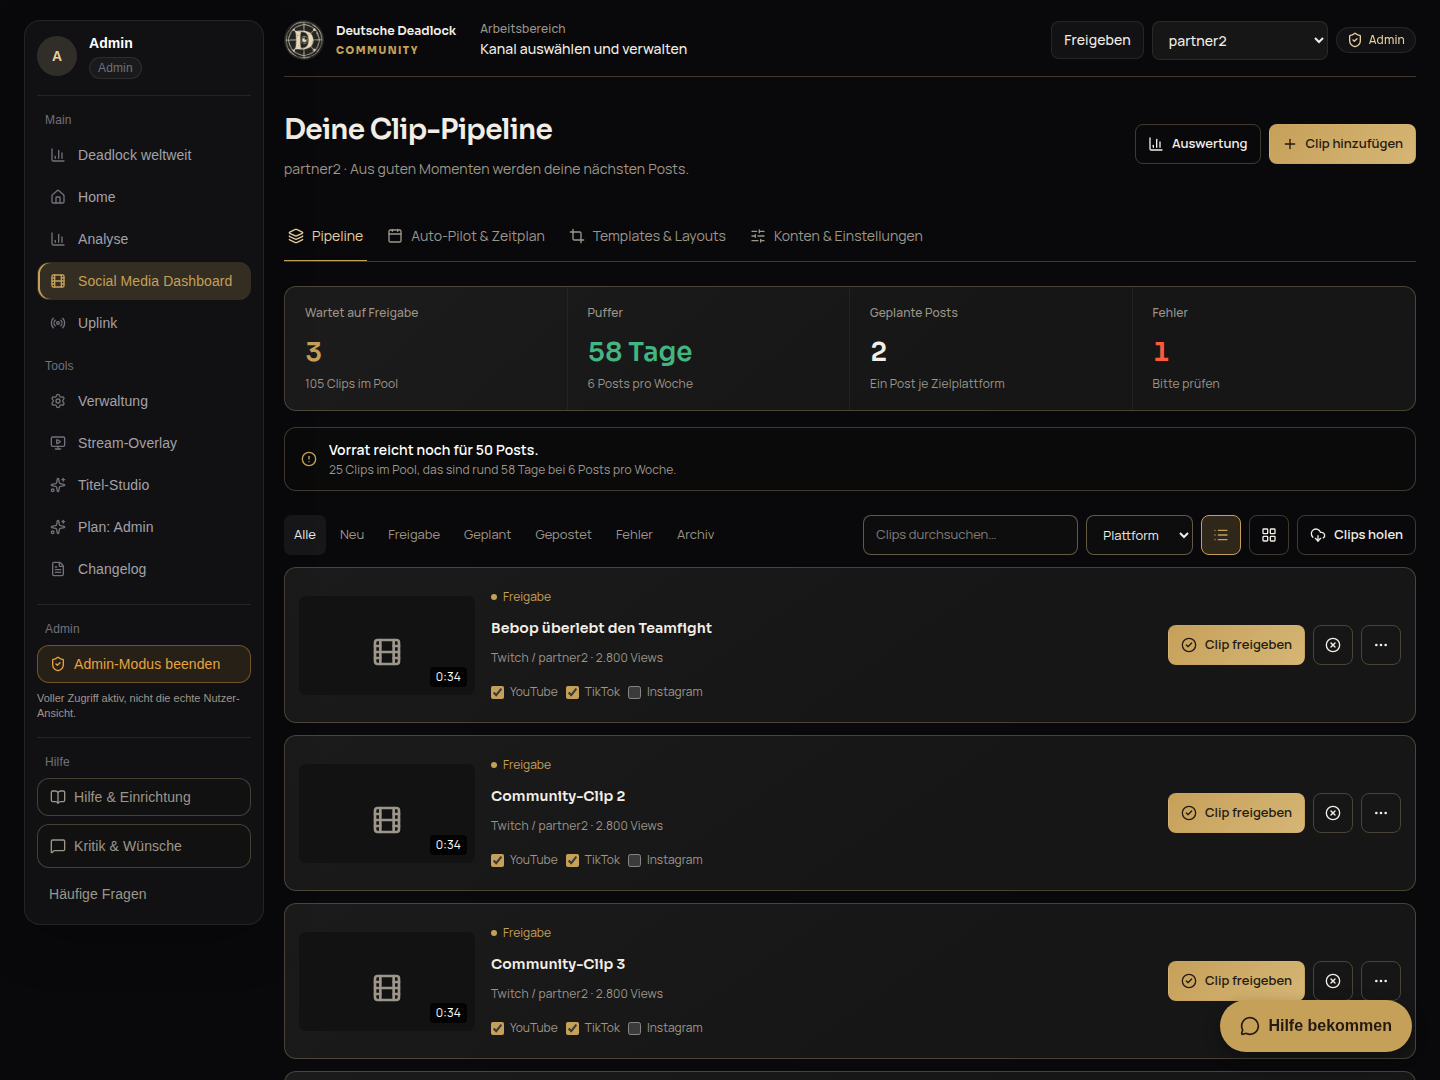
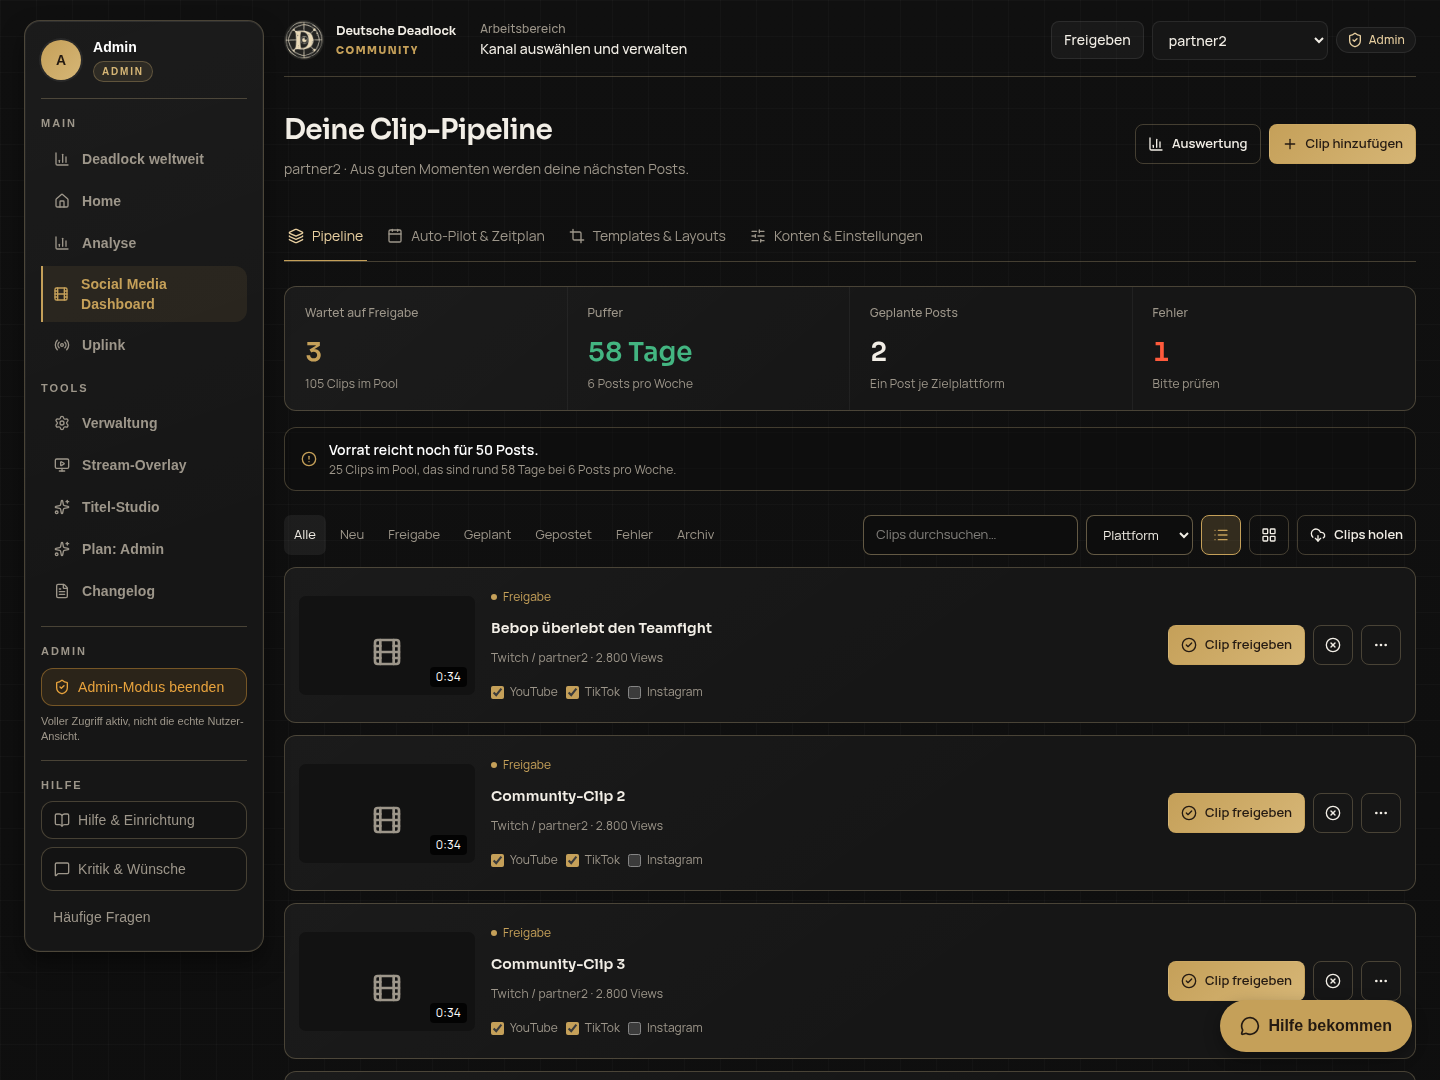
fix(dashboard): Sidebar in Marken-Farben zurueck, Redesign nur im Studio
Der Nutzer wollte das Redesign auf die Social-Media-Seite selbst begrenzt:
Sidebar (panel-card/card-glow, Gold-Aktivzustand mit Balken, gradient-
accent-Avatar, goldenes Plan-Badge, Uppercase-Gruppentitel) und Shell
(internal-home-vibe) sind auf den Stand vor 29dd9c2d zurueck, volle Breite
und 240px-Spalte bleiben. Der studio-navigation-Sonderfall aus f3ec187d
faellt weg, der Gold-Aktivzustand gilt wieder auf jeder Route.

Falle: panel-card setzt ungeschichtet position:relative und ueberstimmt
lg:sticky, lg:top-5 schob die Sidebar als relative Verschiebung 20px nach
unten. Sticky liegt jetzt auf Rise, die Karte auf dem inneren Div.

diff --git a/bot/dashboard_v2/src/components/layout/DashboardSidebar.tsx b/bot/dashboard_v2/src/components/layout/DashboardSidebar.tsx
@@ -57,17 +57,17 @@ function SidebarLink({
   active?: boolean;
 }) {
   const activeClasses =
-    'border border-white/[0.08] bg-white/[0.08] text-white';
+    'border border-primary/25 bg-primary/10 text-primary lg:rounded-l-none lg:border-y-0 lg:border-r-0 lg:border-t-0 lg:border-l-2 lg:border-primary lg:pl-2.5';
   const inactiveClasses =
-    'border border-transparent text-ui-muted hover:bg-white/[0.05] hover:text-white';
+    'border border-transparent text-text-secondary hover:bg-white/5 hover:text-white';
 
   return (
     <a
       href={href}
       aria-current={active ? 'page' : undefined}
-      className={`flex items-center gap-3 rounded-xl px-3 py-2 text-sm font-medium no-underline transition-colors whitespace-nowrap lg:whitespace-normal ${active ? activeClasses : inactiveClasses}`}
+      className={`flex items-center gap-3 rounded-xl px-3 py-2 text-sm font-semibold no-underline transition-colors whitespace-nowrap lg:whitespace-normal ${active ? activeClasses : inactiveClasses}`}
     >
-      <Icon className={`h-4 w-4 shrink-0 ${active ? 'text-ui-accent' : 'text-ui-faint'}`} />
+      <Icon className="h-4 w-4 shrink-0" />
       <span className="min-w-0 lg:break-words">{label}</span>
     </a>
   );
@@ -146,8 +146,8 @@ export function DashboardSidebar({ activeRoute }: { activeRoute: DashboardRoute 
   ];
 
   return (
-    <Rise as="aside" className={`min-w-0 self-start rounded-2xl border border-white/[0.08] bg-ui-panel p-3 shadow-[0_18px_50px_rgba(0,0,0,0.22)] lg:sticky lg:top-5${activeRoute === 'social' ? ' studio-navigation' : ''}`}>
-      <div className="space-y-4">
+    <Rise as="aside" className="min-w-0 self-start lg:sticky lg:top-5">
+      <div className="panel-card card-glow space-y-4 rounded-2xl p-4">
         <div className="flex items-center gap-3">
           {shownAvatar ? (
             <img
@@ -157,7 +157,7 @@ export function DashboardSidebar({ activeRoute }: { activeRoute: DashboardRoute 
               className="sidebar-avatar-glow h-10 w-10 shrink-0 rounded-full border border-border object-cover"
             />
           ) : profileReady ? (
-            <div className="sidebar-avatar-glow flex h-10 w-10 shrink-0 items-center justify-center rounded-full bg-ui-accent-strong/15 text-sm font-semibold text-ui-accent-ink">
+            <div className="gradient-accent sidebar-avatar-glow flex h-10 w-10 shrink-0 items-center justify-center rounded-full text-sm font-bold">
               {displayName?.[0]?.toUpperCase() ?? '?'}
             </div>
           ) : (
@@ -168,16 +168,16 @@ export function DashboardSidebar({ activeRoute }: { activeRoute: DashboardRoute 
           )}
           <div data-tour-id="tour-plan" className="min-w-0">
             <div className="truncate text-sm font-semibold text-white">{displayName}</div>
-            <div className="mt-1 inline-flex max-w-full items-center rounded-full border border-white/[0.08] bg-white/[0.04] px-2 py-0.5 text-xs font-medium text-ui-faint">
+            <div className="mt-1 inline-flex max-w-full items-center rounded-full border border-accent/30 bg-accent/10 px-2 py-0.5 text-[10px] font-semibold uppercase tracking-[0.18em] text-accent">
               {planName}
             </div>
           </div>
         </div>
 
-        <div className="border-t border-white/[0.08]" />
+        <div className="border-t border-border" />
 
         <div className="space-y-2">
-          <div className="px-2 text-xs font-medium text-ui-faint">
+          <div className="text-[11px] font-semibold uppercase tracking-[0.18em] text-text-secondary">
             Main
           </div>
           <nav
@@ -198,7 +198,7 @@ export function DashboardSidebar({ activeRoute }: { activeRoute: DashboardRoute 
         </div>
 
         <div className="space-y-2">
-          <div className="px-2 text-xs font-medium text-ui-faint">
+          <div className="text-[11px] font-semibold uppercase tracking-[0.18em] text-text-secondary">
             Tools
           </div>
           <div className="flex gap-2 overflow-x-auto pb-1 lg:block lg:space-y-1 lg:overflow-visible lg:pb-0">
@@ -217,9 +217,9 @@ export function DashboardSidebar({ activeRoute }: { activeRoute: DashboardRoute 
 
         {adminEligible ? (
           <>
-            <div className="border-t border-white/[0.08]" />
+            <div className="border-t border-border" />
             <div className="space-y-2">
-              <div className="px-2 text-xs font-medium text-ui-faint">
+              <div className="text-[11px] font-semibold uppercase tracking-[0.18em] text-text-secondary">
                 Admin
               </div>
               <button
@@ -266,9 +266,9 @@ export function DashboardSidebar({ activeRoute }: { activeRoute: DashboardRoute 
           </>
         ) : null}
 
-        <div className="border-t border-white/[0.08]" />
+        <div className="border-t border-border" />
         <div data-tour-id="tour-help" className="space-y-2">
-          <div className="px-2 text-xs font-medium text-ui-faint">
+          <div className="text-[11px] font-semibold uppercase tracking-[0.18em] text-text-secondary">
             Hilfe
           </div>
           <a

diff --git a/bot/dashboard_v2/tests/dashboardShell.test.ts b/bot/dashboard_v2/tests/dashboardShell.test.ts
@@ -53,25 +53,25 @@ test('keine Seite setzt einen eigenen Gesamtrahmen mehr', () => {
   }
 });
 
-test('die Shell trägt Hintergrund, volle Breite, Sidebar-Spalte und den Main-Slot', () => {
-  assert.match(SHELL, /bg-ui-root/);
+test('die Shell trägt den Marken-Hintergrund, volle Breite, Sidebar-Spalte und den Main-Slot', () => {
+  assert.match(SHELL, /internal-home-vibe/);
+  assert.doesNotMatch(SHELL, /bg-ui-root|text-ui-text/);
   assert.doesNotMatch(SHELL, /max-w-\[/);
   assert.match(SHELL, /lg:grid-cols-\[240px_minmax\(0,1fr\)\]/);
   assert.match(SHELL, /<DashboardSidebar activeRoute=\{activeRoute\} \/>/);
   assert.match(SHELL, /<main[^>]*>\{children\}<\/main>/);
 });
 
-test('Social Media nutzt dieselbe Shell wie Home und Uplink; die Sidebar trägt nur den Studio-Farblayer', () => {
+test('Social Media nutzt dieselbe farbige Shell und Navigation wie Home und Uplink', () => {
   assert.doesNotMatch(SHELL, /activeRoute\s*===\s*['"]social['"]/);
   assert.doesNotMatch(SHELL, /studio-shell|social-studio/);
-  assert.match(SIDEBAR, /studio-navigation/);
-  assert.doesNotMatch(SIDEBAR, /studioMenuOpen|studio-shell|studio-brand/);
+  assert.doesNotMatch(SIDEBAR, /studio-navigation|studioMenuOpen|studio-shell|studio-brand/);
   assert.equal((SHELL.match(/<DashboardSidebar /g) ?? []).length, 1);
 });
 
 test('Studio-CSS bleibt im Inhalt und definiert keinen zweiten Dashboard-Rahmen', () => {
   const studio = read('components/socialmedia/studio.css');
-  assert.doesNotMatch(studio, /\.studio-shell/);
+  assert.doesNotMatch(studio, /\.studio-shell|\.studio-navigation/);
   assert.match(read('pages/SocialMediaAdmin.tsx'), /className="social-studio space-y-6"/);
 });
 

diff --git a/bot/dashboard_v2/src/components/socialmedia/studio.css b/bot/dashboard_v2/src/components/socialmedia/studio.css
@@ -478,18 +478,3 @@
     transition: none !important;
   }
 }
-
-/*
- * Studio-Farblayer für die gemeinsame Sidebar auf der Social-Route:
- * Gold-Aktivzustand wie im Studio, ohne eigene Fläche oder Struktur.
- * Die Markenzeile bleibt im Workspace-Kopf.
- */
-.studio-navigation a[aria-current='page'] {
-  color: var(--color-primary);
-  background: var(--color-primary-soft);
-  box-shadow: inset 2px 0 var(--color-primary);
-  border-color: transparent;
-}
-.studio-navigation .sidebar-avatar-glow {
-  box-shadow: none;
-}

diff --git a/bot/dashboard_v2/src/components/layout/DashboardShell.tsx b/bot/dashboard_v2/src/components/layout/DashboardShell.tsx
@@ -16,7 +16,7 @@ export function DashboardShell({
 }) {
   const withSidebar = !demoMode && showSidebar;
   return (
-    <div className="relative min-h-screen bg-ui-root text-ui-text">
+    <div className="internal-home-vibe relative min-h-screen">
       <div className="relative px-3 py-4 md:px-5 md:py-5 lg:px-6">
         {withSidebar ? (
           <div className="grid gap-4 lg:grid-cols-[240px_minmax(0,1fr)] lg:gap-5">

diff --git a/.tasks/2026-09-22-social-dashboard-shell-size/EVIDENCE.md b/.tasks/2026-09-22-social-dashboard-shell-size/EVIDENCE.md
@@ -36,3 +36,11 @@ Pruefungen: tsc+vite Exit 0, 44/44 Unit-Tests in vier Shell- und Studio-Testdate
 gegen Produktionsbundle mit isolierten API-Fixtures (playwright-core, System-
 Chrome), ESLint Exit 0. Messwerte und Screenshots in diesem Ordner, Stand
 21:32; 1920px: Sidebar x=24/240px, Main x=284/Breite 1612px.
+
+## Ergänzung 2026-09-23: Marken-Farben der Sidebar global zurück
+
+Der Nutzer wollte das Redesign auf die Social-Media-Seite selbst begrenzt. Die gemeinsame Sidebar und der Shell-Hintergrund sind auf den Stand vor 29dd9c2d zurückgesetzt: panel-card mit card-glow, Gold-Aktivzustand mit Inset-Balken, gradient-accent-Avatar, Plan-Badge in Gold, Großbuchstaben-Gruppentitel. Der studio-navigation-Sonderfall aus f3ec187d ist entfernt; die Shell trägt wieder internal-home-vibe statt der ui-root-Fläche. Volle Breite und 240px-Spalte bleiben wie im Shell-Fix.
+
+Dabei entdeckte Falle: panel-card setzt ungeschichtet position:relative und überstimmt damit das geschichtete lg:sticky; lg:top-5 wirkte dann als relative Verschiebung und schob die Sidebar 20px nach unten. Sticky liegt jetzt auf dem Rise-Element, die Karte auf dem inneren Div, gemessen wieder bei top=20.
+
+Prüfungen: tsc+vite Exit 0, 51/51 fokussierte Unit-Tests, ESLint Exit 0, 21/21 Browser-Tests gegen das Produktionsbundle. Der Gold-Test prüft den Aktivzustand jetzt auf jeder Route gegen eine bg-primary/10-Referenzmessung, shell-geometry.json und Studio-Screenshots sind neu.
